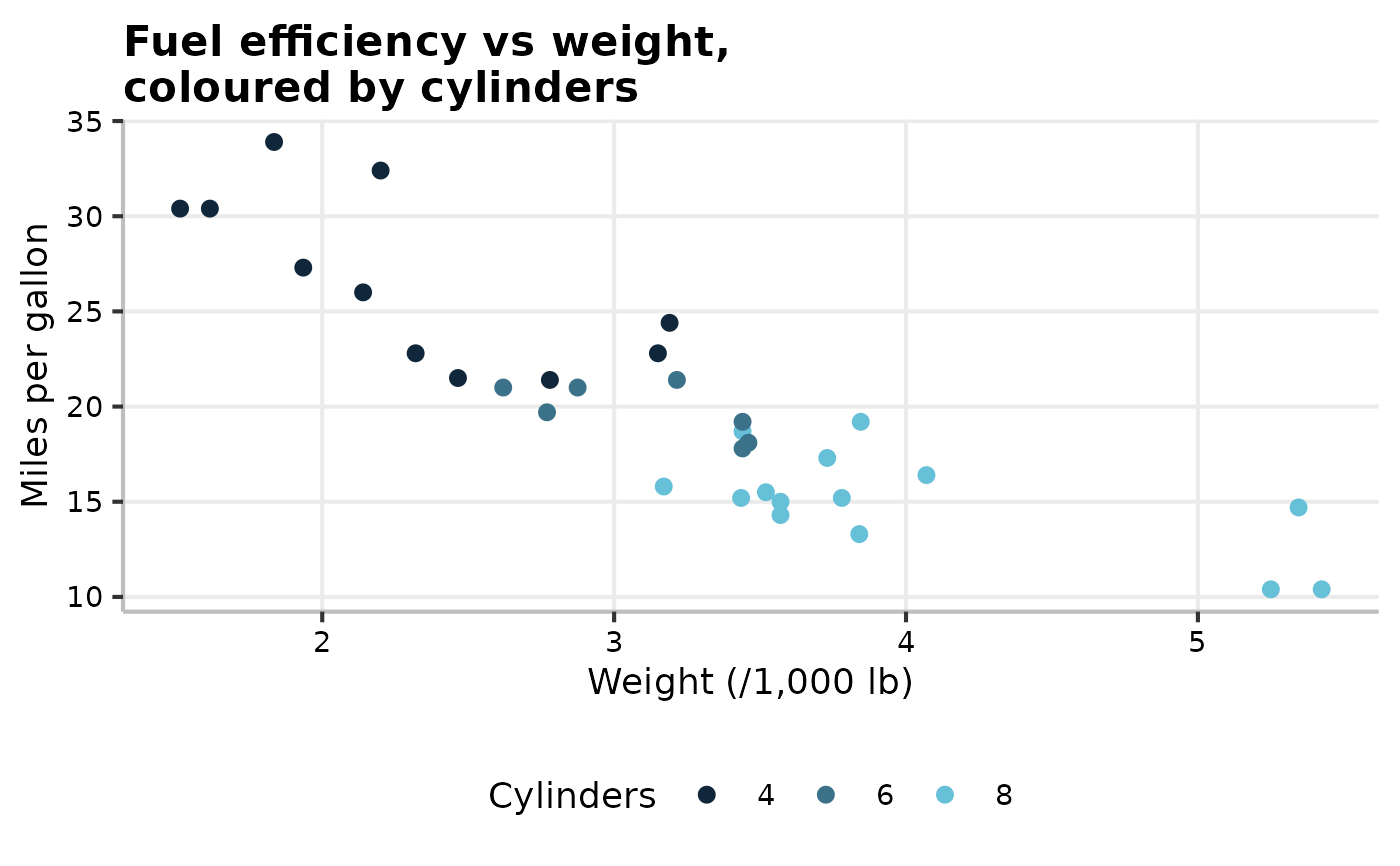
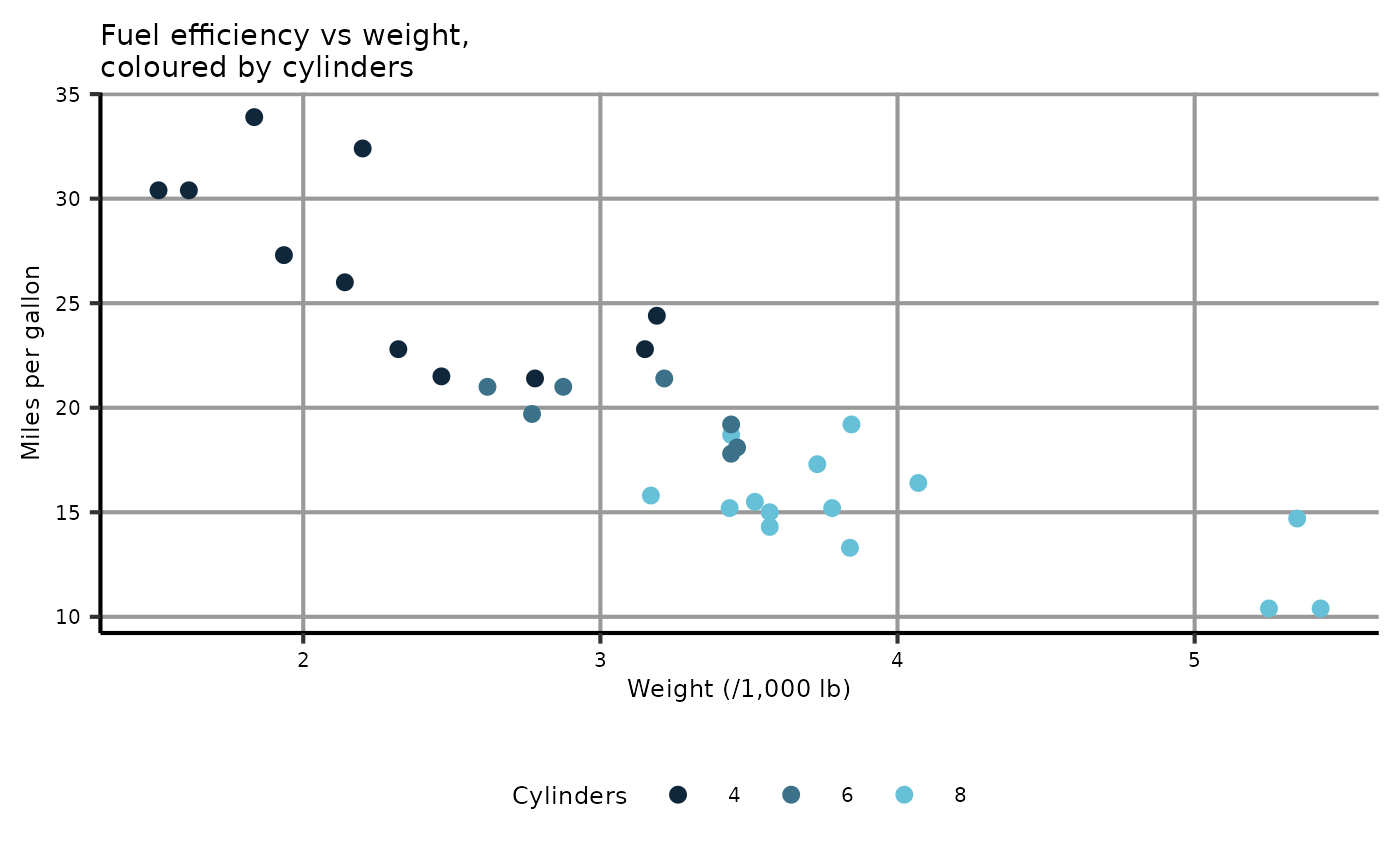
Deploying to gh-pages from @ Jake-Powell/OMESurvey@13fec03f38a2b7d9140d3b6c10f5dbf0924fc907 🚀

Changed region(s): [[0.0, 0.0312, 0.9829, 0.8106], [0.3379, 0.9042, 0.7371, 0.9353]]

diff --git a/reference/summary_plot_stacked_bar.html b/reference/summary_plot_stacked_bar.html
@@ -66,7 +66,9 @@ particular pattern.</p>
 <span>  order_values <span class="op">=</span> <span class="cn">NULL</span>,</span>
 <span>  titleText <span class="op">=</span> <span class="cn">NULL</span>,</span>
 <span>  fill_label_width <span class="op">=</span> <span class="fl">20</span>,</span>
-<span>  group_label_width <span class="op">=</span> <span class="fl">30</span></span>
+<span>  group_label_width <span class="op">=</span> <span class="fl">30</span>,</span>
+<span>  show_counts <span class="op">=</span> <span class="cn">TRUE</span>,</span>
+<span>  count_style <span class="op">=</span> <span class="st">"both"</span></span>
 <span><span class="op">)</span></span></code></pre></div>
     </div>
 
@@ -154,6 +156,19 @@ wrapping fill labels with <code><a href="https://stringr.tidyverse.org/reference
 <dd><p>Optional integer. Width (in characters) used when
 wrapping vertical (group/question) axis labels with <code><a href="https://stringr.tidyverse.org/reference/str_wrap.html" class="external-link">stringr::str_wrap()</a></code>.
 Default is 30.</p></dd>
+
+
+<dt id="arg-show-counts">show_counts<a class="anchor" aria-label="anchor" href="#arg-show-counts"></a></dt>
+<dd><p>Logical; whether to display (n) type counts for each bar.
+Defaults to TRUE. Needs care if used with faceting.</p></dd>
+
+
+<dt id="arg-count-style">count_style<a class="anchor" aria-label="anchor" href="#arg-count-style"></a></dt>
+<dd><p>Character string controlling how counts are displayed
+when <code>show_counts = TRUE</code>. Options are:</p><ul><li><p><code>"non-missing"</code>: show number of non-missing responses</p></li>
+<li><p><code>"total"</code>: show total number of responses</p></li>
+<li><p><code>"both"</code>: show both as "(non-missing/total)"</p></li>
+</ul><p>Defaults to <code>"both"</code>.</p></dd>
 
 </dl></div>
     <div class="section level2">

diff --git a/reference/scale_colour_OME.html b/reference/scale_colour_OME.html
@@ -1,8 +1,8 @@
 <!DOCTYPE html>
 <!-- Generated by pkgdown: do not edit by hand --><html lang="en"><head><meta http-equiv="Content-Type" content="text/html; charset=UTF-8"><meta charset="utf-8"><meta http-equiv="X-UA-Compatible" content="IE=edge"><meta name="viewport" content="width=device-width, initial-scale=1, shrink-to-fit=no"><title>OME colour scales for ggplot2 — scale_colour_OME • OMESurvey</title><!-- favicons --><link rel="icon" type="image/png" sizes="96x96" href="../favicon-96x96.png"><link rel="icon" type="”image/svg+xml”" href="../favicon.svg"><link rel="apple-touch-icon" sizes="180x180" href="../apple-touch-icon.png"><link rel="icon" sizes="any" href="../favicon.ico"><link rel="manifest" href="../site.webmanifest"><script src="../lightswitch.js"></script><script src="../deps/jquery-3.6.0/jquery-3.6.0.min.js"></script><meta name="viewport" content="width=device-width, initial-scale=1, shrink-to-fit=no"><link href="../deps/bootstrap-5.3.8/bootstrap.min.css" rel="stylesheet"><script src="../deps/bootstrap-5.3.8/bootstrap.bundle.min.js"></script><link href="../deps/font-awesome-6.5.2/css/all.min.css" rel="stylesheet"><link href="../deps/font-awesome-6.5.2/css/v4-shims.min.css" rel="stylesheet"><script src="../deps/headroom-0.11.0/headroom.min.js"></script><script src="../deps/headroom-0.11.0/jQuery.headroom.min.js"></script><script src="../deps/bootstrap-toc-1.0.1/bootstrap-toc.min.js"></script><script src="../deps/clipboard.js-2.0.11/clipboard.min.js"></script><script src="../deps/search-1.0.0/autocomplete.jquery.min.js"></script><script src="../deps/search-1.0.0/fuse.min.js"></script><script src="../deps/search-1.0.0/mark.min.js"></script><!-- pkgdown --><script src="../pkgdown.js"></script><meta property="og:title" content="OME colour scales for ggplot2 — scale_colour_OME"><meta name="description" content="Provides OME palettes for use with colour and fill aesthetics.
-(Convenience wrapper around ggplot2::scale_colour_manual() using
+(Convenience wrapper around ggplot2::discrete_scale() using
 the standard OME colour palette.)"><meta property="og:description" content="Provides OME palettes for use with colour and fill aesthetics.
-(Convenience wrapper around ggplot2::scale_colour_manual() using
+(Convenience wrapper around ggplot2::discrete_scale() using
 the standard OME colour palette.)"><meta property="og:image" content="https://jake-powell.github.io/OMESurvey/logo.png"></head><body>
     <a href="#main" class="visually-hidden-focusable">Skip to contents</a>
 
@@ -49,13 +49,15 @@ the standard OME colour palette.)"><meta property="og:image" content="https://ja
 
     <div class="ref-description section level2">
     <p>Provides OME palettes for use with colour and fill aesthetics.
-(Convenience wrapper around <code><a href="https://ggplot2.tidyverse.org/reference/scale_manual.html" class="external-link">ggplot2::scale_colour_manual()</a></code> using
+(Convenience wrapper around <code><a href="https://ggplot2.tidyverse.org/reference/discrete_scale.html" class="external-link">ggplot2::discrete_scale()</a></code> using
 the standard OME colour palette.)</p>
     </div>
 
     <div class="section level2">
     <h2 id="ref-usage">Usage<a class="anchor" aria-label="anchor" href="#ref-usage"></a></h2>
     <div class="sourceCode"><pre class="sourceCode r"><code><span><span class="fu">scale_colour_OME</span><span class="op">(</span>type <span class="op">=</span> <span class="st">"distinct"</span>, <span class="va">...</span><span class="op">)</span></span>
+<span></span>
+<span><span class="fu">scale_color_OME</span><span class="op">(</span>type <span class="op">=</span> <span class="st">"distinct"</span>, <span class="va">...</span><span class="op">)</span></span>
 <span></span>
 <span><span class="fu">scale_fill_OME</span><span class="op">(</span>type <span class="op">=</span> <span class="st">"distinct"</span>, <span class="va">...</span><span class="op">)</span></span></code></pre></div>
     </div>
@@ -71,7 +73,7 @@ Default is <code>"distinct"</code>.</p></dd>
 
 
 <dt id="arg--">...<a class="anchor" aria-label="anchor" href="#arg--"></a></dt>
-<dd><p>Additional arguments passed to scale_colour_manual()`.</p></dd>
+<dd><p>Additional arguments passed to <code>ggplot2::discrete</code>.</p></dd>
 
 </dl></div>
     <div class="section level2">
@@ -92,7 +94,7 @@ Default is <code>"distinct"</code>.</p></dd>
 <span class="r-msg co"><span class="r-pr">#&gt;</span> </span>
 <span class="r-msg co"><span class="r-pr">#&gt;</span>     intersect, setdiff, setequal, union</span>
 <span class="r-in"><span></span></span>
-<span class="r-in"><span><span class="co"># Examples here use scale_colour_OME(); scale_fill_OME() is exactly analagous.</span></span></span>
+<span class="r-in"><span><span class="co"># Examples here use scale_colour_OME(); scale_fill_OME() is exactly analogous.</span></span></span>
 <span class="r-in"><span></span></span>
 <span class="r-in"><span><span class="co"># Prepare example dataset with labelled factors</span></span></span>
 <span class="r-in"><span><span class="va">mtcars_small</span> <span class="op">&lt;-</span> <span class="va">mtcars</span> <span class="op">|&gt;</span></span></span>
@@ -108,7 +110,7 @@ Default is <code>"distinct"</code>.</p></dd>
 <span class="r-in"><span>  <span class="fu"><a href="https://ggplot2.tidyverse.org/reference/ggplot.html" class="external-link">ggplot</a></span><span class="op">(</span><span class="fu"><a href="https://ggplot2.tidyverse.org/reference/aes.html" class="external-link">aes</a></span><span class="op">(</span>x <span class="op">=</span> <span class="va">wt</span>, y <span class="op">=</span> <span class="va">mpg</span>, colour <span class="op">=</span> <span class="va">am</span><span class="op">)</span><span class="op">)</span> <span class="op">+</span></span></span>
 <span class="r-in"><span>  <span class="fu"><a href="https://ggplot2.tidyverse.org/reference/geom_point.html" class="external-link">geom_point</a></span><span class="op">(</span><span class="op">)</span> <span class="op">+</span></span></span>
 <span class="r-in"><span>  <span class="fu">scale_colour_OME</span><span class="op">(</span><span class="op">)</span> <span class="op">+</span></span></span>
-<span class="r-in"><span>  <span class="fu"><a href="theme_OME.html">theme_OME</a></span><span class="op">(</span><span class="op">)</span> <span class="op">+</span></span></span>
+<span class="r-in"><span>  <span class="fu"><a href="theme_OME.html">theme_OME</a></span><span class="op">(</span>base_family <span class="op">=</span> <span class="st">"sans"</span><span class="op">)</span> <span class="op">+</span> <span class="co"># need to alter base_family here to avoid problems in package-checking</span></span></span>
 <span class="r-in"><span>  <span class="fu"><a href="https://ggplot2.tidyverse.org/reference/labs.html" class="external-link">labs</a></span><span class="op">(</span></span></span>
 <span class="r-in"><span>    x <span class="op">=</span> <span class="st">"Weight (/1,000 lb)"</span>,</span></span>
 <span class="r-in"><span>    y <span class="op">=</span> <span class="st">"Miles per gallon"</span>,</span></span>
@@ -122,7 +124,7 @@ Default is <code>"distinct"</code>.</p></dd>
 <span class="r-in"><span>  <span class="fu"><a href="https://ggplot2.tidyverse.org/reference/ggplot.html" class="external-link">ggplot</a></span><span class="op">(</span><span class="fu"><a href="https://ggplot2.tidyverse.org/reference/aes.html" class="external-link">aes</a></span><span class="op">(</span>x <span class="op">=</span> <span class="va">wt</span>, y <span class="op">=</span> <span class="va">mpg</span>, colour <span class="op">=</span> <span class="va">cyl</span><span class="op">)</span><span class="op">)</span> <span class="op">+</span></span></span>
 <span class="r-in"><span>  <span class="fu"><a href="https://ggplot2.tidyverse.org/reference/geom_point.html" class="external-link">geom_point</a></span><span class="op">(</span><span class="op">)</span> <span class="op">+</span></span></span>
 <span class="r-in"><span>  <span class="fu">scale_colour_OME</span><span class="op">(</span>type <span class="op">=</span> <span class="st">"sequential"</span><span class="op">)</span> <span class="op">+</span></span></span>
-<span class="r-in"><span>  <span class="fu"><a href="theme_OME.html">theme_OME</a></span><span class="op">(</span><span class="op">)</span> <span class="op">+</span></span></span>
+<span class="r-in"><span>  <span class="fu"><a href="theme_OME.html">theme_OME</a></span><span class="op">(</span>base_family <span class="op">=</span> <span class="st">"sans"</span><span class="op">)</span> <span class="op">+</span> <span class="co"># need to alter base_family here to avoid problems in package-checking</span></span></span>
 <span class="r-in"><span>  <span class="fu"><a href="https://ggplot2.tidyverse.org/reference/labs.html" class="external-link">labs</a></span><span class="op">(</span></span></span>
 <span class="r-in"><span>    x <span class="op">=</span> <span class="st">"Weight (/1,000 lb)"</span>,</span></span>
 <span class="r-in"><span>    y <span class="op">=</span> <span class="st">"Miles per gallon"</span>,</span></span>

diff --git a/reference/theme_OME.html b/reference/theme_OME.html
@@ -49,7 +49,7 @@
 
     <div class="section level2">
     <h2 id="ref-usage">Usage<a class="anchor" aria-label="anchor" href="#ref-usage"></a></h2>
-    <div class="sourceCode"><pre class="sourceCode r"><code><span><span class="fu">theme_OME</span><span class="op">(</span>base_size <span class="op">=</span> <span class="fl">16</span><span class="op">)</span></span></code></pre></div>
+    <div class="sourceCode"><pre class="sourceCode r"><code><span><span class="fu">theme_OME</span><span class="op">(</span>base_size <span class="op">=</span> <span class="fl">16</span>, base_family <span class="op">=</span> <span class="fu">choose_font_family</span><span class="op">(</span><span class="st">"Arial"</span><span class="op">)</span><span class="op">)</span></span></code></pre></div>
     </div>
 
     <div class="section level2">
@@ -58,6 +58,11 @@
 
 <dl><dt id="arg-base-size">base_size<a class="anchor" aria-label="anchor" href="#arg-base-size"></a></dt>
 <dd><p>Numeric. Base font size for the theme. Defaults to 16.</p></dd>
+
+
+<dt id="arg-base-family">base_family<a class="anchor" aria-label="anchor" href="#arg-base-family"></a></dt>
+<dd><p>Base font family for plot text. Defaults to Arial when
+available via <code>systemfonts</code>; otherwise falls back to <code>"sans"</code>.</p></dd>
 
 </dl></div>
     <div class="section level2">
@@ -74,10 +79,11 @@
     <div class="sourceCode"><pre class="sourceCode r"><code><span class="r-in"><span><span class="kw">if</span> <span class="op">(</span><span class="fu"><a href="https://rdrr.io/r/base/ns-load.html" class="external-link">requireNamespace</a></span><span class="op">(</span><span class="st">"ggplot2"</span>, quietly <span class="op">=</span> <span class="cn">TRUE</span><span class="op">)</span><span class="op">)</span> <span class="op">{</span></span></span>
 <span class="r-in"><span>  <span class="va">p</span> <span class="op">&lt;-</span> <span class="fu">ggplot2</span><span class="fu">::</span><span class="fu"><a href="https://ggplot2.tidyverse.org/reference/ggplot.html" class="external-link">ggplot</a></span><span class="op">(</span><span class="va">mtcars</span>, <span class="fu">ggplot2</span><span class="fu">::</span><span class="fu"><a href="https://ggplot2.tidyverse.org/reference/aes.html" class="external-link">aes</a></span><span class="op">(</span>x <span class="op">=</span> <span class="fu"><a href="https://rdrr.io/r/base/factor.html" class="external-link">factor</a></span><span class="op">(</span><span class="va">cyl</span><span class="op">)</span><span class="op">)</span><span class="op">)</span> <span class="op">+</span></span></span>
 <span class="r-in"><span>    <span class="fu">ggplot2</span><span class="fu">::</span><span class="fu"><a href="https://ggplot2.tidyverse.org/reference/geom_bar.html" class="external-link">geom_bar</a></span><span class="op">(</span><span class="op">)</span> <span class="op">+</span></span></span>
-<span class="r-in"><span>    <span class="fu">ggplot2</span><span class="fu">::</span><span class="fu"><a href="https://ggplot2.tidyverse.org/reference/labs.html" class="external-link">labs</a></span><span class="op">(</span>title <span class="op">=</span> <span class="st">"ROME theme demo"</span><span class="op">)</span></span></span>
-<span class="r-in"><span></span></span>
-<span class="r-in"><span>  <span class="co"># Add the theme to a single plot:</span></span></span>
-<span class="r-in"><span>  <span class="va">p</span> <span class="op">+</span> <span class="fu">theme_OME</span><span class="op">(</span><span class="op">)</span></span></span>
+<span class="r-in"><span>    <span class="fu">ggplot2</span><span class="fu">::</span><span class="fu"><a href="https://ggplot2.tidyverse.org/reference/labs.html" class="external-link">labs</a></span><span class="op">(</span></span></span>
+<span class="r-in"><span>      title <span class="op">=</span> <span class="st">"A plot with non-OME-relevant data,"</span>,</span></span>
+<span class="r-in"><span>      subtitle <span class="op">=</span> <span class="st">"but which demos using theme_OME"</span></span></span>
+<span class="r-in"><span>      <span class="op">)</span> <span class="op">+</span></span></span>
+<span class="r-in"><span>   <span class="fu">theme_OME</span><span class="op">(</span><span class="op">)</span></span></span>
 <span class="r-in"><span></span></span>
 <span class="r-in"><span>  <span class="co"># Set as the global default for the current session:</span></span></span>
 <span class="r-in"><span>  <span class="fu">ggplot2</span><span class="fu">::</span><span class="fu"><a href="https://ggplot2.tidyverse.org/reference/get_theme.html" class="external-link">theme_set</a></span><span class="op">(</span><span class="fu">theme_OME</span><span class="op">(</span><span class="op">)</span><span class="op">)</span></span></span>

diff --git a/reference/scale_color_OME.html b/reference/scale_color_OME.html
@@ -1,0 +1,8 @@
+<html>
+  <head>
+    <meta http-equiv="refresh" content="0;URL=https://jake-powell.github.io/OMESurvey/reference/scale_colour_OME.html" />
+    <meta name="robots" content="noindex">
+    <link rel="canonical" href="https://jake-powell.github.io/OMESurvey/reference/scale_colour_OME.html">
+  </head>
+</html>
+

diff --git a/articles/Create-survey-figures.html b/articles/Create-survey-figures.html
@@ -124,7 +124,7 @@ ggplot, a plotly figure or a formatted data frame.</p>
 <div class="sourceCode" id="cb4"><pre class="downlit sourceCode r">
 <code class="sourceCode R"><span><span class="fu">OMESurvey</span><span class="fu">::</span><span class="fu"><a href="../reference/plot_theme.html">plot_theme</a></span><span class="op">(</span><span class="va">data</span>, theme <span class="op">=</span> <span class="st">'Theme_1'</span>, kind <span class="op">=</span> <span class="st">'plotly'</span><span class="op">)</span></span></code></pre></div>
 <div class="plotly html-widget html-fill-item" id="htmlwidget-ac96cb3ee4656e2e9ec3" style="width:700px;height:432.632880098888px;"></div>
-<script type="application/json" data-for="htmlwidget-ac96cb3ee4656e2e9ec3">{"x":{"visdat":{"1d7a3a9ba456":["function () ","plotlyVisDat"]},"cur_data":"1d7a3a9ba456","attrs":{"1d7a3a9ba456":{"y":{},"x":{},"orientation":"h","hovertext":{},"hoverinfo":"text","color":{},"colors":["#66C0D7FF","#3B7389E5","#10263BCC","#732C53E5","#D7336CFF"],"alpha_stroke":1,"sizes":[10,100],"spans":[1,20],"type":"bar"}},"layout":{"margin":{"b":40,"l":60,"t":25,"r":10},"xaxis":{"domain":[0,1],"automargin":true,"title":"Number of responses"},"yaxis":{"domain":[0,1],"automargin":true,"title":"","type":"category","categoryorder":"array","categoryarray":["Question 1","Question 2","Question 3","Question 4","Question 5","Question 6"]},"barmode":"stack","hovermode":"closest","showlegend":true},"source":"A","config":{"modeBarButtonsToAdd":["hoverclosest","hovercompare"],"showSendToCloud":false},"data":[{"y":["Question 1","Question 2","Question 3","Question 4","Question 5","Question 6"],"x":[122,49,84,134,85,90],"orientation":"h","hovertext":["Agree a lot<br>122 Responses<br>34.9%","Agree a lot<br>49 Responses<br>14.4%","Agree a lot<br>84 Responses<br>23.9%","Agree a lot<br>134 Responses<br>38.1%","Agree a lot<br>85 Responses<br>23.5%","Agree a lot<br>90 Responses<br>25.9%"],"hoverinfo":["text","text","text","text","text","text"],"type":"bar","name":"Agree a lot","marker":{"color":"rgba(102,192,215,1)","line":{"color":"rgba(102,192,215,1)"}},"textfont":{"color":"rgba(102,192,215,1)"},"error_y":{"color":"rgba(102,192,215,1)"},"error_x":{"color":"rgba(102,192,215,1)"},"xaxis":"x","yaxis":"y","frame":null},{"y":["Question 1","Question 2","Question 3","Question 4","Question 5","Question 6"],"x":[139,175,135,103,58,104],"orientation":"h","hovertext":["Agree a little<br>139 Responses<br>39.7%","Agree a little<br>175 Responses<br>51.5%","Agree a little<br>135 Responses<br>38.4%","Agree a little<br>103 Responses<br>29.3%","Agree a little<br>58 Responses<br>16.1%","Agree a little<br>104 Responses<br>30%"],"hoverinfo":["text","text","text","text","text","text"],"type":"bar","name":"Agree a little","marker":{"color":"rgba(59,115,137,1)","line":{"color":"rgba(59,115,137,1)"}},"textfont":{"color":"rgba(59,115,137,1)"},"error_y":{"color":"rgba(59,115,137,1)"},"error_x":{"color":"rgba(59,115,137,1)"},"xaxis":"x","yaxis":"y","frame":null},{"y":["Question 1","Question 2","Question 3","Question 4","Question 5","Question 6"],"x":[45,54,65,52,70,76],"orientation":"h","hovertext":["Neither<br>45 Responses<br>12.9%","Neither<br>54 Responses<br>15.9%","Neither<br>65 Responses<br>18.5%","Neither<br>52 Responses<br>14.8%","Neither<br>70 Responses<br>19.4%","Neither<br>76 Responses<br>21.9%"],"hoverinfo":["text","text","text","text","text","text"],"type":"bar","name":"Neither","marker":{"color":"rgba(16,38,59,1)","line":{"color":"rgba(16,38,59,1)"}},"textfont":{"color":"rgba(16,38,59,1)"},"error_y":{"color":"rgba(16,38,59,1)"},"error_x":{"color":"rgba(16,38,59,1)"},"xaxis":"x","yaxis":"y","frame":null},{"y":["Question 1","Question 2","Question 3","Question 4","Question 5","Question 6"],"x":[28,44,47,33,61,32],"orientation":"h","hovertext":["Disagree a little<br>28 Responses<br>8%","Disagree a little<br>44 Responses<br>12.9%","Disagree a little<br>47 Responses<br>13.4%","Disagree a little<br>33 Responses<br>9.4%","Disagree a little<br>61 Responses<br>16.9%","Disagree a little<br>32 Responses<br>9.2%"],"hoverinfo":["text","text","text","text","text","text"],"type":"bar","name":"Disagree a little","marker":{"color":"rgba(115,44,83,1)","line":{"color":"rgba(115,44,83,1)"}},"textfont":{"color":"rgba(115,44,83,1)"},"error_y":{"color":"rgba(115,44,83,1)"},"error_x":{"color":"rgba(115,44,83,1)"},"xaxis":"x","yaxis":"y","frame":null},{"y":["Question 1","Question 2","Question 3","Question 4","Question 5","Question 6"],"x":[16,18,21,30,87,45],"orientation":"h","hovertext":["Disagree a lot<br>16 Responses<br>4.6%","Disagree a lot<br>18 Responses<br>5.3%","Disagree a lot<br>21 Responses<br>6%","Disagree a lot<br>30 Responses<br>8.5%","Disagree a lot<br>87 Responses<br>24.1%","Disagree a lot<br>45 Responses<br>13%"],"hoverinfo":["text","text","text","text","text","text"],"type":"bar","name":"Disagree a lot","marker":{"color":"rgba(215,51,108,1)","line":{"color":"rgba(215,51,108,1)"}},"textfont":{"color":"rgba(215,51,108,1)"},"error_y":{"color":"rgba(215,51,108,1)"},"error_x":{"color":"rgba(215,51,108,1)"},"xaxis":"x","yaxis":"y","frame":null}],"highlight":{"on":"plotly_click","persistent":false,"dynamic":false,"selectize":false,"opacityDim":0.20000000000000001,"selected":{"opacity":1},"debounce":0},"shinyEvents":["plotly_hover","plotly_click","plotly_selected","plotly_relayout","plotly_brushed","plotly_brushing","plotly_clickannotation","plotly_doubleclick","plotly_deselect","plotly_afterplot","plotly_sunburstclick"],"base_url":"https://plot.ly"},"evals":[],"jsHooks":[]}</script>
+<script type="application/json" data-for="htmlwidget-ac96cb3ee4656e2e9ec3">{"x":{"visdat":{"1cf046a1620f":["function () ","plotlyVisDat"]},"cur_data":"1cf046a1620f","attrs":{"1cf046a1620f":{"y":{},"x":{},"orientation":"h","hovertext":{},"hoverinfo":"text","color":{},"colors":["#66C0D7FF","#3B7389E5","#10263BCC","#732C53E5","#D7336CFF"],"alpha_stroke":1,"sizes":[10,100],"spans":[1,20],"type":"bar"}},"layout":{"margin":{"b":40,"l":60,"t":25,"r":10},"xaxis":{"domain":[0,1],"automargin":true,"title":"Number of responses"},"yaxis":{"domain":[0,1],"automargin":true,"title":"","type":"category","categoryorder":"array","categoryarray":["Question 1","Question 2","Question 3","Question 4","Question 5","Question 6"]},"barmode":"stack","hovermode":"closest","showlegend":true},"source":"A","config":{"modeBarButtonsToAdd":["hoverclosest","hovercompare"],"showSendToCloud":false},"data":[{"y":["Question 1","Question 2","Question 3","Question 4","Question 5","Question 6"],"x":[122,49,84,134,85,90],"orientation":"h","hovertext":["Agree a lot<br>122 Responses<br>34.9%","Agree a lot<br>49 Responses<br>14.4%","Agree a lot<br>84 Responses<br>23.9%","Agree a lot<br>134 Responses<br>38.1%","Agree a lot<br>85 Responses<br>23.5%","Agree a lot<br>90 Responses<br>25.9%"],"hoverinfo":["text","text","text","text","text","text"],"type":"bar","name":"Agree a lot","marker":{"color":"rgba(102,192,215,1)","line":{"color":"rgba(102,192,215,1)"}},"textfont":{"color":"rgba(102,192,215,1)"},"error_y":{"color":"rgba(102,192,215,1)"},"error_x":{"color":"rgba(102,192,215,1)"},"xaxis":"x","yaxis":"y","frame":null},{"y":["Question 1","Question 2","Question 3","Question 4","Question 5","Question 6"],"x":[139,175,135,103,58,104],"orientation":"h","hovertext":["Agree a little<br>139 Responses<br>39.7%","Agree a little<br>175 Responses<br>51.5%","Agree a little<br>135 Responses<br>38.4%","Agree a little<br>103 Responses<br>29.3%","Agree a little<br>58 Responses<br>16.1%","Agree a little<br>104 Responses<br>30%"],"hoverinfo":["text","text","text","text","text","text"],"type":"bar","name":"Agree a little","marker":{"color":"rgba(59,115,137,1)","line":{"color":"rgba(59,115,137,1)"}},"textfont":{"color":"rgba(59,115,137,1)"},"error_y":{"color":"rgba(59,115,137,1)"},"error_x":{"color":"rgba(59,115,137,1)"},"xaxis":"x","yaxis":"y","frame":null},{"y":["Question 1","Question 2","Question 3","Question 4","Question 5","Question 6"],"x":[45,54,65,52,70,76],"orientation":"h","hovertext":["Neither<br>45 Responses<br>12.9%","Neither<br>54 Responses<br>15.9%","Neither<br>65 Responses<br>18.5%","Neither<br>52 Responses<br>14.8%","Neither<br>70 Responses<br>19.4%","Neither<br>76 Responses<br>21.9%"],"hoverinfo":["text","text","text","text","text","text"],"type":"bar","name":"Neither","marker":{"color":"rgba(16,38,59,1)","line":{"color":"rgba(16,38,59,1)"}},"textfont":{"color":"rgba(16,38,59,1)"},"error_y":{"color":"rgba(16,38,59,1)"},"error_x":{"color":"rgba(16,38,59,1)"},"xaxis":"x","yaxis":"y","frame":null},{"y":["Question 1","Question 2","Question 3","Question 4","Question 5","Question 6"],"x":[28,44,47,33,61,32],"orientation":"h","hovertext":["Disagree a little<br>28 Responses<br>8%","Disagree a little<br>44 Responses<br>12.9%","Disagree a little<br>47 Responses<br>13.4%","Disagree a little<br>33 Responses<br>9.4%","Disagree a little<br>61 Responses<br>16.9%","Disagree a little<br>32 Responses<br>9.2%"],"hoverinfo":["text","text","text","text","text","text"],"type":"bar","name":"Disagree a little","marker":{"color":"rgba(115,44,83,1)","line":{"color":"rgba(115,44,83,1)"}},"textfont":{"color":"rgba(115,44,83,1)"},"error_y":{"color":"rgba(115,44,83,1)"},"error_x":{"color":"rgba(115,44,83,1)"},"xaxis":"x","yaxis":"y","frame":null},{"y":["Question 1","Question 2","Question 3","Question 4","Question 5","Question 6"],"x":[16,18,21,30,87,45],"orientation":"h","hovertext":["Disagree a lot<br>16 Responses<br>4.6%","Disagree a lot<br>18 Responses<br>5.3%","Disagree a lot<br>21 Responses<br>6%","Disagree a lot<br>30 Responses<br>8.5%","Disagree a lot<br>87 Responses<br>24.1%","Disagree a lot<br>45 Responses<br>13%"],"hoverinfo":["text","text","text","text","text","text"],"type":"bar","name":"Disagree a lot","marker":{"color":"rgba(215,51,108,1)","line":{"color":"rgba(215,51,108,1)"}},"textfont":{"color":"rgba(215,51,108,1)"},"error_y":{"color":"rgba(215,51,108,1)"},"error_x":{"color":"rgba(215,51,108,1)"},"xaxis":"x","yaxis":"y","frame":null}],"highlight":{"on":"plotly_click","persistent":false,"dynamic":false,"selectize":false,"opacityDim":0.20000000000000001,"selected":{"opacity":1},"debounce":0},"shinyEvents":["plotly_hover","plotly_click","plotly_selected","plotly_relayout","plotly_brushed","plotly_brushing","plotly_clickannotation","plotly_doubleclick","plotly_deselect","plotly_afterplot","plotly_sunburstclick"],"base_url":"https://plot.ly"},"evals":[],"jsHooks":[]}</script>
 </div>
 <div class="tab-pane" id="data-frame" role="tabpanel" aria-labelledby="data-frame-tab">
 
@@ -216,7 +216,7 @@ code.</p>
 <div class="sourceCode" id="cb10"><pre class="downlit sourceCode r">
 <code class="sourceCode R"><span><span class="fu">OMESurvey</span><span class="fu">::</span><span class="fu"><a href="../reference/plot_theme_by_demographic.html">plot_theme_by_demographic</a></span><span class="op">(</span><span class="va">data</span>, theme <span class="op">=</span> <span class="st">'Theme_1'</span>, demographic_column <span class="op">=</span> <span class="va">school_column</span>,  kind <span class="op">=</span> <span class="st">'plotly'</span><span class="op">)</span></span></code></pre></div>
 <div class="plotly html-widget html-fill-item" id="htmlwidget-36aa3d2a04d42bbc2145" style="width:700px;height:432.632880098888px;"></div>
-<script type="application/json" data-for="htmlwidget-36aa3d2a04d42bbc2145">{"x":{"visdat":{"1d7a72a9d58a":["function () ","plotlyVisDat"]},"cur_data":"1d7a72a9d58a","attrs":{"1d7a72a9d58a":{"y":{},"x":{},"orientation":"h","hovertext":{},"hoverinfo":"text","color":{},"colors":["#66C0D7FF","#2C596FDD","#522A4BDD","#D7336CFF"],"alpha_stroke":1,"sizes":[10,100],"spans":[1,20],"type":"bar"}},"layout":{"margin":{"b":40,"l":60,"t":25,"r":10},"xaxis":{"domain":[0,1],"automargin":true,"title":"Agree or strongly agree (%)"},"yaxis":{"domain":[0,1],"automargin":true,"title":"","type":"category","categoryorder":"array","categoryarray":["Question 1","Question 2","Question 3","Question 4","Question 5","Question 6"]},"hovermode":"closest","showlegend":true},"source":"A","config":{"modeBarButtonsToAdd":["hoverclosest","hovercompare"],"showSendToCloud":false},"data":[{"y":["Question 1","Question 2","Question 3","Question 4","Question 5","Question 6"],"x":[49.101796407185603,47.904191616766497,46.706586826347298,48.502994011976,23.353293413173699,37.125748502994],"orientation":"h","hovertext":["Question 1<br>School: 007<br>49.1% of responses","Question 2<br>School: 007<br>47.9% of responses","Question 3<br>School: 007<br>46.7% of responses","Question 4<br>School: 007<br>48.5% of responses","Question 5<br>School: 007<br>23.4% of responses","Question 6<br>School: 007<br>37.1% of responses"],"hoverinfo":["text","text","text","text","text","text"],"type":"bar","name":"007","marker":{"color":"rgba(102,192,215,1)","line":{"color":"rgba(102,192,215,1)"}},"textfont":{"color":"rgba(102,192,215,1)"},"error_y":{"color":"rgba(102,192,215,1)"},"error_x":{"color":"rgba(102,192,215,1)"},"xaxis":"x","yaxis":"y","frame":null},{"y":["Question 1","Question 2","Question 3","Question 4","Question 5","Question 6"],"x":[56.818181818181799,44.090909090909101,45.909090909090899,48.181818181818201,32.272727272727302,43.636363636363598],"orientation":"h","hovertext":["Question 1<br>School: 008<br>56.8% of responses","Question 2<br>School: 008<br>44.1% of responses","Question 3<br>School: 008<br>45.9% of responses","Question 4<br>School: 008<br>48.2% of responses","Question 5<br>School: 008<br>32.3% of responses","Question 6<br>School: 008<br>43.6% of responses"],"hoverinfo":["text","text","text","text","text","text"],"type":"bar","name":"008","marker":{"color":"rgba(44,89,111,1)","line":{"color":"rgba(44,89,111,1)"}},"textfont":{"color":"rgba(44,89,111,1)"},"error_y":{"color":"rgba(44,89,111,1)"},"error_x":{"color":"rgba(44,89,111,1)"},"xaxis":"x","yaxis":"y","frame":null},{"y":["Question 1","Question 2","Question 3","Question 4","Question 5","Question 6"],"x":[70.588235294117695,55.882352941176499,35.294117647058798,55.882352941176499,35.294117647058798,38.235294117647101],"orientation":"h","hovertext":["Question 1<br>School: 009<br>70.6% of responses","Question 2<br>School: 009<br>55.9% of responses","Question 3<br>School: 009<br>35.3% of responses","Question 4<br>School: 009<br>55.9% of responses","Question 5<br>School: 009<br>35.3% of responses","Question 6<br>School: 009<br>38.2% of responses"],"hoverinfo":["text","text","text","text","text","text"],"type":"bar","name":"009","marker":{"color":"rgba(82,42,75,1)","line":{"color":"rgba(82,42,75,1)"}},"textfont":{"color":"rgba(82,42,75,1)"},"error_y":{"color":"rgba(82,42,75,1)"},"error_x":{"color":"rgba(82,42,75,1)"},"xaxis":"x","yaxis":"y","frame":null},{"y":["Question 1","Question 2","Question 3","Question 4","Question 5","Question 6"],"x":[47.619047619047599,44.4444444444444,44.4444444444444,49.206349206349202,33.3333333333333,36.507936507936499],"orientation":"h","hovertext":["Question 1<br>School: 010<br>47.6% of responses","Question 2<br>School: 010<br>44.4% of responses","Question 3<br>School: 010<br>44.4% of responses","Question 4<br>School: 010<br>49.2% of responses","Question 5<br>School: 010<br>33.3% of responses","Question 6<br>School: 010<br>36.5% of responses"],"hoverinfo":["text","text","text","text","text","text"],"type":"bar","name":"010","marker":{"color":"rgba(215,51,108,1)","line":{"color":"rgba(215,51,108,1)"}},"textfont":{"color":"rgba(215,51,108,1)"},"error_y":{"color":"rgba(215,51,108,1)"},"error_x":{"color":"rgba(215,51,108,1)"},"xaxis":"x","yaxis":"y","frame":null}],"highlight":{"on":"plotly_click","persistent":false,"dynamic":false,"selectize":false,"opacityDim":0.20000000000000001,"selected":{"opacity":1},"debounce":0},"shinyEvents":["plotly_hover","plotly_click","plotly_selected","plotly_relayout","plotly_brushed","plotly_brushing","plotly_clickannotation","plotly_doubleclick","plotly_deselect","plotly_afterplot","plotly_sunburstclick"],"base_url":"https://plot.ly"},"evals":[],"jsHooks":[]}</script>
+<script type="application/json" data-for="htmlwidget-36aa3d2a04d42bbc2145">{"x":{"visdat":{"1cf02ae86af":["function () ","plotlyVisDat"]},"cur_data":"1cf02ae86af","attrs":{"1cf02ae86af":{"y":{},"x":{},"orientation":"h","hovertext":{},"hoverinfo":"text","color":{},"colors":["#66C0D7FF","#2C596FDD","#522A4BDD","#D7336CFF"],"alpha_stroke":1,"sizes":[10,100],"spans":[1,20],"type":"bar"}},"layout":{"margin":{"b":40,"l":60,"t":25,"r":10},"xaxis":{"domain":[0,1],"automargin":true,"title":"Agree or strongly agree (%)"},"yaxis":{"domain":[0,1],"automargin":true,"title":"","type":"category","categoryorder":"array","categoryarray":["Question 1","Question 2","Question 3","Question 4","Question 5","Question 6"]},"hovermode":"closest","showlegend":true},"source":"A","config":{"modeBarButtonsToAdd":["hoverclosest","hovercompare"],"showSendToCloud":false},"data":[{"y":["Question 1","Question 2","Question 3","Question 4","Question 5","Question 6"],"x":[49.101796407185603,47.904191616766497,46.706586826347298,48.502994011976,23.353293413173699,37.125748502994],"orientation":"h","hovertext":["Question 1<br>School: 007<br>49.1% of responses","Question 2<br>School: 007<br>47.9% of responses","Question 3<br>School: 007<br>46.7% of responses","Question 4<br>School: 007<br>48.5% of responses","Question 5<br>School: 007<br>23.4% of responses","Question 6<br>School: 007<br>37.1% of responses"],"hoverinfo":["text","text","text","text","text","text"],"type":"bar","name":"007","marker":{"color":"rgba(102,192,215,1)","line":{"color":"rgba(102,192,215,1)"}},"textfont":{"color":"rgba(102,192,215,1)"},"error_y":{"color":"rgba(102,192,215,1)"},"error_x":{"color":"rgba(102,192,215,1)"},"xaxis":"x","yaxis":"y","frame":null},{"y":["Question 1","Question 2","Question 3","Question 4","Question 5","Question 6"],"x":[56.818181818181799,44.090909090909101,45.909090909090899,48.181818181818201,32.272727272727302,43.636363636363598],"orientation":"h","hovertext":["Question 1<br>School: 008<br>56.8% of responses","Question 2<br>School: 008<br>44.1% of responses","Question 3<br>School: 008<br>45.9% of responses","Question 4<br>School: 008<br>48.2% of responses","Question 5<br>School: 008<br>32.3% of responses","Question 6<br>School: 008<br>43.6% of responses"],"hoverinfo":["text","text","text","text","text","text"],"type":"bar","name":"008","marker":{"color":"rgba(44,89,111,1)","line":{"color":"rgba(44,89,111,1)"}},"textfont":{"color":"rgba(44,89,111,1)"},"error_y":{"color":"rgba(44,89,111,1)"},"error_x":{"color":"rgba(44,89,111,1)"},"xaxis":"x","yaxis":"y","frame":null},{"y":["Question 1","Question 2","Question 3","Question 4","Question 5","Question 6"],"x":[70.588235294117695,55.882352941176499,35.294117647058798,55.882352941176499,35.294117647058798,38.235294117647101],"orientation":"h","hovertext":["Question 1<br>School: 009<br>70.6% of responses","Question 2<br>School: 009<br>55.9% of responses","Question 3<br>School: 009<br>35.3% of responses","Question 4<br>School: 009<br>55.9% of responses","Question 5<br>School: 009<br>35.3% of responses","Question 6<br>School: 009<br>38.2% of responses"],"hoverinfo":["text","text","text","text","text","text"],"type":"bar","name":"009","marker":{"color":"rgba(82,42,75,1)","line":{"color":"rgba(82,42,75,1)"}},"textfont":{"color":"rgba(82,42,75,1)"},"error_y":{"color":"rgba(82,42,75,1)"},"error_x":{"color":"rgba(82,42,75,1)"},"xaxis":"x","yaxis":"y","frame":null},{"y":["Question 1","Question 2","Question 3","Question 4","Question 5","Question 6"],"x":[47.619047619047599,44.4444444444444,44.4444444444444,49.206349206349202,33.3333333333333,36.507936507936499],"orientation":"h","hovertext":["Question 1<br>School: 010<br>47.6% of responses","Question 2<br>School: 010<br>44.4% of responses","Question 3<br>School: 010<br>44.4% of responses","Question 4<br>School: 010<br>49.2% of responses","Question 5<br>School: 010<br>33.3% of responses","Question 6<br>School: 010<br>36.5% of responses"],"hoverinfo":["text","text","text","text","text","text"],"type":"bar","name":"010","marker":{"color":"rgba(215,51,108,1)","line":{"color":"rgba(215,51,108,1)"}},"textfont":{"color":"rgba(215,51,108,1)"},"error_y":{"color":"rgba(215,51,108,1)"},"error_x":{"color":"rgba(215,51,108,1)"},"xaxis":"x","yaxis":"y","frame":null}],"highlight":{"on":"plotly_click","persistent":false,"dynamic":false,"selectize":false,"opacityDim":0.20000000000000001,"selected":{"opacity":1},"debounce":0},"shinyEvents":["plotly_hover","plotly_click","plotly_selected","plotly_relayout","plotly_brushed","plotly_brushing","plotly_clickannotation","plotly_doubleclick","plotly_deselect","plotly_afterplot","plotly_sunburstclick"],"base_url":"https://plot.ly"},"evals":[],"jsHooks":[]}</script>
 </div>
 <div class="tab-pane" id="data-frame-1" role="tabpanel" aria-labelledby="data-frame-1-tab">
 
@@ -298,7 +298,7 @@ column within survey data.</p>
 <div class="sourceCode" id="cb16"><pre class="downlit sourceCode r">
 <code class="sourceCode R"><span><span class="fu">OMESurvey</span><span class="fu">::</span><span class="fu"><a href="../reference/plot_bar.html">plot_bar</a></span><span class="op">(</span><span class="va">data</span>, column <span class="op">=</span> <span class="fl">5</span>, kind <span class="op">=</span> <span class="st">'plotly'</span><span class="op">)</span></span></code></pre></div>
 <div class="plotly html-widget html-fill-item" id="htmlwidget-1fb4450895fe099f74a1" style="width:700px;height:432.632880098888px;"></div>
-<script type="application/json" data-for="htmlwidget-1fb4450895fe099f74a1">{"x":{"visdat":{"1d7a552779a6":["function () ","plotlyVisDat"]},"cur_data":"1d7a552779a6","attrs":{"1d7a552779a6":{"y":{},"x":{},"orientation":"h","hovertext":{},"hoverinfo":"text","color":"#10263BCC","colors":"#10263BCC","alpha_stroke":1,"sizes":[10,100],"spans":[1,20],"type":"bar"}},"layout":{"margin":{"b":40,"l":60,"t":25,"r":10},"xaxis":{"domain":[0,1],"automargin":true,"title":"Number of responses"},"yaxis":{"domain":[0,1],"automargin":true,"title":"","type":"category","categoryorder":"array","categoryarray":["Moved group","Chose not to<br>participate","Absent"]},"hovermode":"closest","showlegend":false},"source":"A","config":{"modeBarButtonsToAdd":["hoverclosest","hovercompare"],"showSendToCloud":false},"data":[{"y":["Moved group","Chose not to<br>participate","Absent"],"x":[1,11,38],"orientation":"h","hovertext":["Moved group: 1<br>2% of responses","Chose not to participate: 11<br>22% of responses","Absent: 38<br>76% of responses"],"hoverinfo":["text","text","text"],"type":"bar","name":"#10263BCC","marker":{"color":"rgba(16,38,59,0.8)","line":{"color":"rgba(16,38,59,0.8)"}},"textfont":{"color":"rgba(16,38,59,0.8)"},"error_y":{"color":"rgba(16,38,59,0.8)"},"error_x":{"color":"rgba(16,38,59,0.8)"},"xaxis":"x","yaxis":"y","frame":null}],"highlight":{"on":"plotly_click","persistent":false,"dynamic":false,"selectize":false,"opacityDim":0.20000000000000001,"selected":{"opacity":1},"debounce":0},"shinyEvents":["plotly_hover","plotly_click","plotly_selected","plotly_relayout","plotly_brushed","plotly_brushing","plotly_clickannotation","plotly_doubleclick","plotly_deselect","plotly_afterplot","plotly_sunburstclick"],"base_url":"https://plot.ly"},"evals":[],"jsHooks":[]}</script>
+<script type="application/json" data-for="htmlwidget-1fb4450895fe099f74a1">{"x":{"visdat":{"1cf05d82f3ac":["function () ","plotlyVisDat"]},"cur_data":"1cf05d82f3ac","attrs":{"1cf05d82f3ac":{"y":{},"x":{},"orientation":"h","hovertext":{},"hoverinfo":"text","color":"#10263BCC","colors":"#10263BCC","alpha_stroke":1,"sizes":[10,100],"spans":[1,20],"type":"bar"}},"layout":{"margin":{"b":40,"l":60,"t":25,"r":10},"xaxis":{"domain":[0,1],"automargin":true,"title":"Number of responses"},"yaxis":{"domain":[0,1],"automargin":true,"title":"","type":"category","categoryorder":"array","categoryarray":["Moved group","Chose not to<br>participate","Absent"]},"hovermode":"closest","showlegend":false},"source":"A","config":{"modeBarButtonsToAdd":["hoverclosest","hovercompare"],"showSendToCloud":false},"data":[{"y":["Moved group","Chose not to<br>participate","Absent"],"x":[1,11,38],"orientation":"h","hovertext":["Moved group: 1<br>2% of responses","Chose not to participate: 11<br>22% of responses","Absent: 38<br>76% of responses"],"hoverinfo":["text","text","text"],"type":"bar","name":"#10263BCC","marker":{"color":"rgba(16,38,59,0.8)","line":{"color":"rgba(16,38,59,0.8)"}},"textfont":{"color":"rgba(16,38,59,0.8)"},"error_y":{"color":"rgba(16,38,59,0.8)"},"error_x":{"color":"rgba(16,38,59,0.8)"},"xaxis":"x","yaxis":"y","frame":null}],"highlight":{"on":"plotly_click","persistent":false,"dynamic":false,"selectize":false,"opacityDim":0.20000000000000001,"selected":{"opacity":1},"debounce":0},"shinyEvents":["plotly_hover","plotly_click","plotly_selected","plotly_relayout","plotly_brushed","plotly_brushing","plotly_clickannotation","plotly_doubleclick","plotly_deselect","plotly_afterplot","plotly_sunburstclick"],"base_url":"https://plot.ly"},"evals":[],"jsHooks":[]}</script>
 </div>
 <div class="tab-pane" id="data-frame-2" role="tabpanel" aria-labelledby="data-frame-2-tab">
 

diff --git a/reference/index.html b/reference/index.html
@@ -350,7 +350,7 @@
 
         <dt>
 
-          <code><a href="scale_colour_OME.html">scale_colour_OME()</a></code> <code><a href="scale_colour_OME.html">scale_fill_OME()</a></code>
+          <code><a href="scale_colour_OME.html">scale_colour_OME()</a></code> <code><a href="scale_colour_OME.html">scale_color_OME()</a></code> <code><a href="scale_colour_OME.html">scale_fill_OME()</a></code>
 
         </dt>
         <dd>OME colour scales for ggplot2</dd>

diff --git a/reference/summary_plot_stacked_bar.md b/reference/summary_plot_stacked_bar.md
@@ -18,7 +18,9 @@ summary_plot_stacked_bar(
   order_values = NULL,
   titleText = NULL,
   fill_label_width = 20,
-  group_label_width = 30
+  group_label_width = 30,
+  show_counts = TRUE,
+  count_style = "both"
 )
 ```
 
@@ -120,6 +122,24 @@ summary_plot_stacked_bar(
   (group/question) axis labels with
   [`stringr::str_wrap()`](https://stringr.tidyverse.org/reference/str_wrap.html).
   Default is 30.
+
+- show_counts:
+
+  Logical; whether to display (n) type counts for each bar. Defaults to
+  TRUE. Needs care if used with faceting.
+
+- count_style:
+
+  Character string controlling how counts are displayed when
+  `show_counts = TRUE`. Options are:
+
+  - `"non-missing"`: show number of non-missing responses
+
+  - `"total"`: show total number of responses
+
+  - `"both"`: show both as "(non-missing/total)"
+
+  Defaults to `"both"`.
 
 ## Value
 

diff --git a/reference/theme_OME.md b/reference/theme_OME.md
@@ -6,7 +6,7 @@ An OME ggplot2 theme (based on
 ## Usage
 
 ``` r
-theme_OME(base_size = 16)
+theme_OME(base_size = 16, base_family = choose_font_family("Arial"))
 ```
 
 ## Arguments
@@ -14,6 +14,11 @@ theme_OME(base_size = 16)
 - base_size:
 
   Numeric. Base font size for the theme. Defaults to 16.
+
+- base_family:
+
+  Base font family for plot text. Defaults to Arial when available via
+  `systemfonts`; otherwise falls back to `"sans"`.
 
 ## Value
 
@@ -30,10 +35,11 @@ tweaks !!!
 if (requireNamespace("ggplot2", quietly = TRUE)) {
   p <- ggplot2::ggplot(mtcars, ggplot2::aes(x = factor(cyl))) +
     ggplot2::geom_bar() +
-    ggplot2::labs(title = "ROME theme demo")
-
-  # Add the theme to a single plot:
-  p + theme_OME()
+    ggplot2::labs(
+      title = "A plot with non-OME-relevant data,",
+      subtitle = "but which demos using theme_OME"
+      ) +
+   theme_OME()
 
   # Set as the global default for the current session:
   ggplot2::theme_set(theme_OME())

diff --git a/reference/scale_colour_OME.md b/reference/scale_colour_OME.md
@@ -2,13 +2,15 @@
 
 Provides OME palettes for use with colour and fill aesthetics.
 (Convenience wrapper around
-[`ggplot2::scale_colour_manual()`](https://ggplot2.tidyverse.org/reference/scale_manual.html)
+[`ggplot2::discrete_scale()`](https://ggplot2.tidyverse.org/reference/discrete_scale.html)
 using the standard OME colour palette.)
 
 ## Usage
 
 ``` r
 scale_colour_OME(type = "distinct", ...)
+
+scale_color_OME(type = "distinct", ...)
 
 scale_fill_OME(type = "distinct", ...)
 ```
@@ -23,7 +25,7 @@ scale_fill_OME(type = "distinct", ...)
 
 - ...:
 
-  Additional arguments passed to scale_colour_manual()\`.
+  Additional arguments passed to `ggplot2::discrete`.
 
 ## Value
 
@@ -43,7 +45,7 @@ library(dplyr)
 #> 
 #>     intersect, setdiff, setequal, union
 
-# Examples here use scale_colour_OME(); scale_fill_OME() is exactly analagous.
+# Examples here use scale_colour_OME(); scale_fill_OME() is exactly analogous.
 
 # Prepare example dataset with labelled factors
 mtcars_small <- mtcars |>
@@ -59,7 +61,7 @@ mtcars_small |>
   ggplot(aes(x = wt, y = mpg, colour = am)) +
   geom_point() +
   scale_colour_OME() +
-  theme_OME() +
+  theme_OME(base_family = "sans") + # need to alter base_family here to avoid problems in package-checking
   labs(
     x = "Weight (/1,000 lb)",
     y = "Miles per gallon",
@@ -73,7 +75,7 @@ mtcars_small |>
   ggplot(aes(x = wt, y = mpg, colour = cyl)) +
   geom_point() +
   scale_colour_OME(type = "sequential") +
-  theme_OME() +
+  theme_OME(base_family = "sans") + # need to alter base_family here to avoid problems in package-checking
   labs(
     x = "Weight (/1,000 lb)",
     y = "Miles per gallon",

diff --git a/reference/index.md b/reference/index.md
@@ -96,6 +96,7 @@
 - [`theme_OME()`](https://jake-powell.github.io/OMESurvey/reference/theme_OME.md)
   : ROME ggplot2 theme
 - [`scale_colour_OME()`](https://jake-powell.github.io/OMESurvey/reference/scale_colour_OME.md)
+  [`scale_color_OME()`](https://jake-powell.github.io/OMESurvey/reference/scale_colour_OME.md)
   [`scale_fill_OME()`](https://jake-powell.github.io/OMESurvey/reference/scale_colour_OME.md)
   : OME colour scales for ggplot2
 - [`kable_narrow()`](https://jake-powell.github.io/OMESurvey/reference/kable_narrow.md)